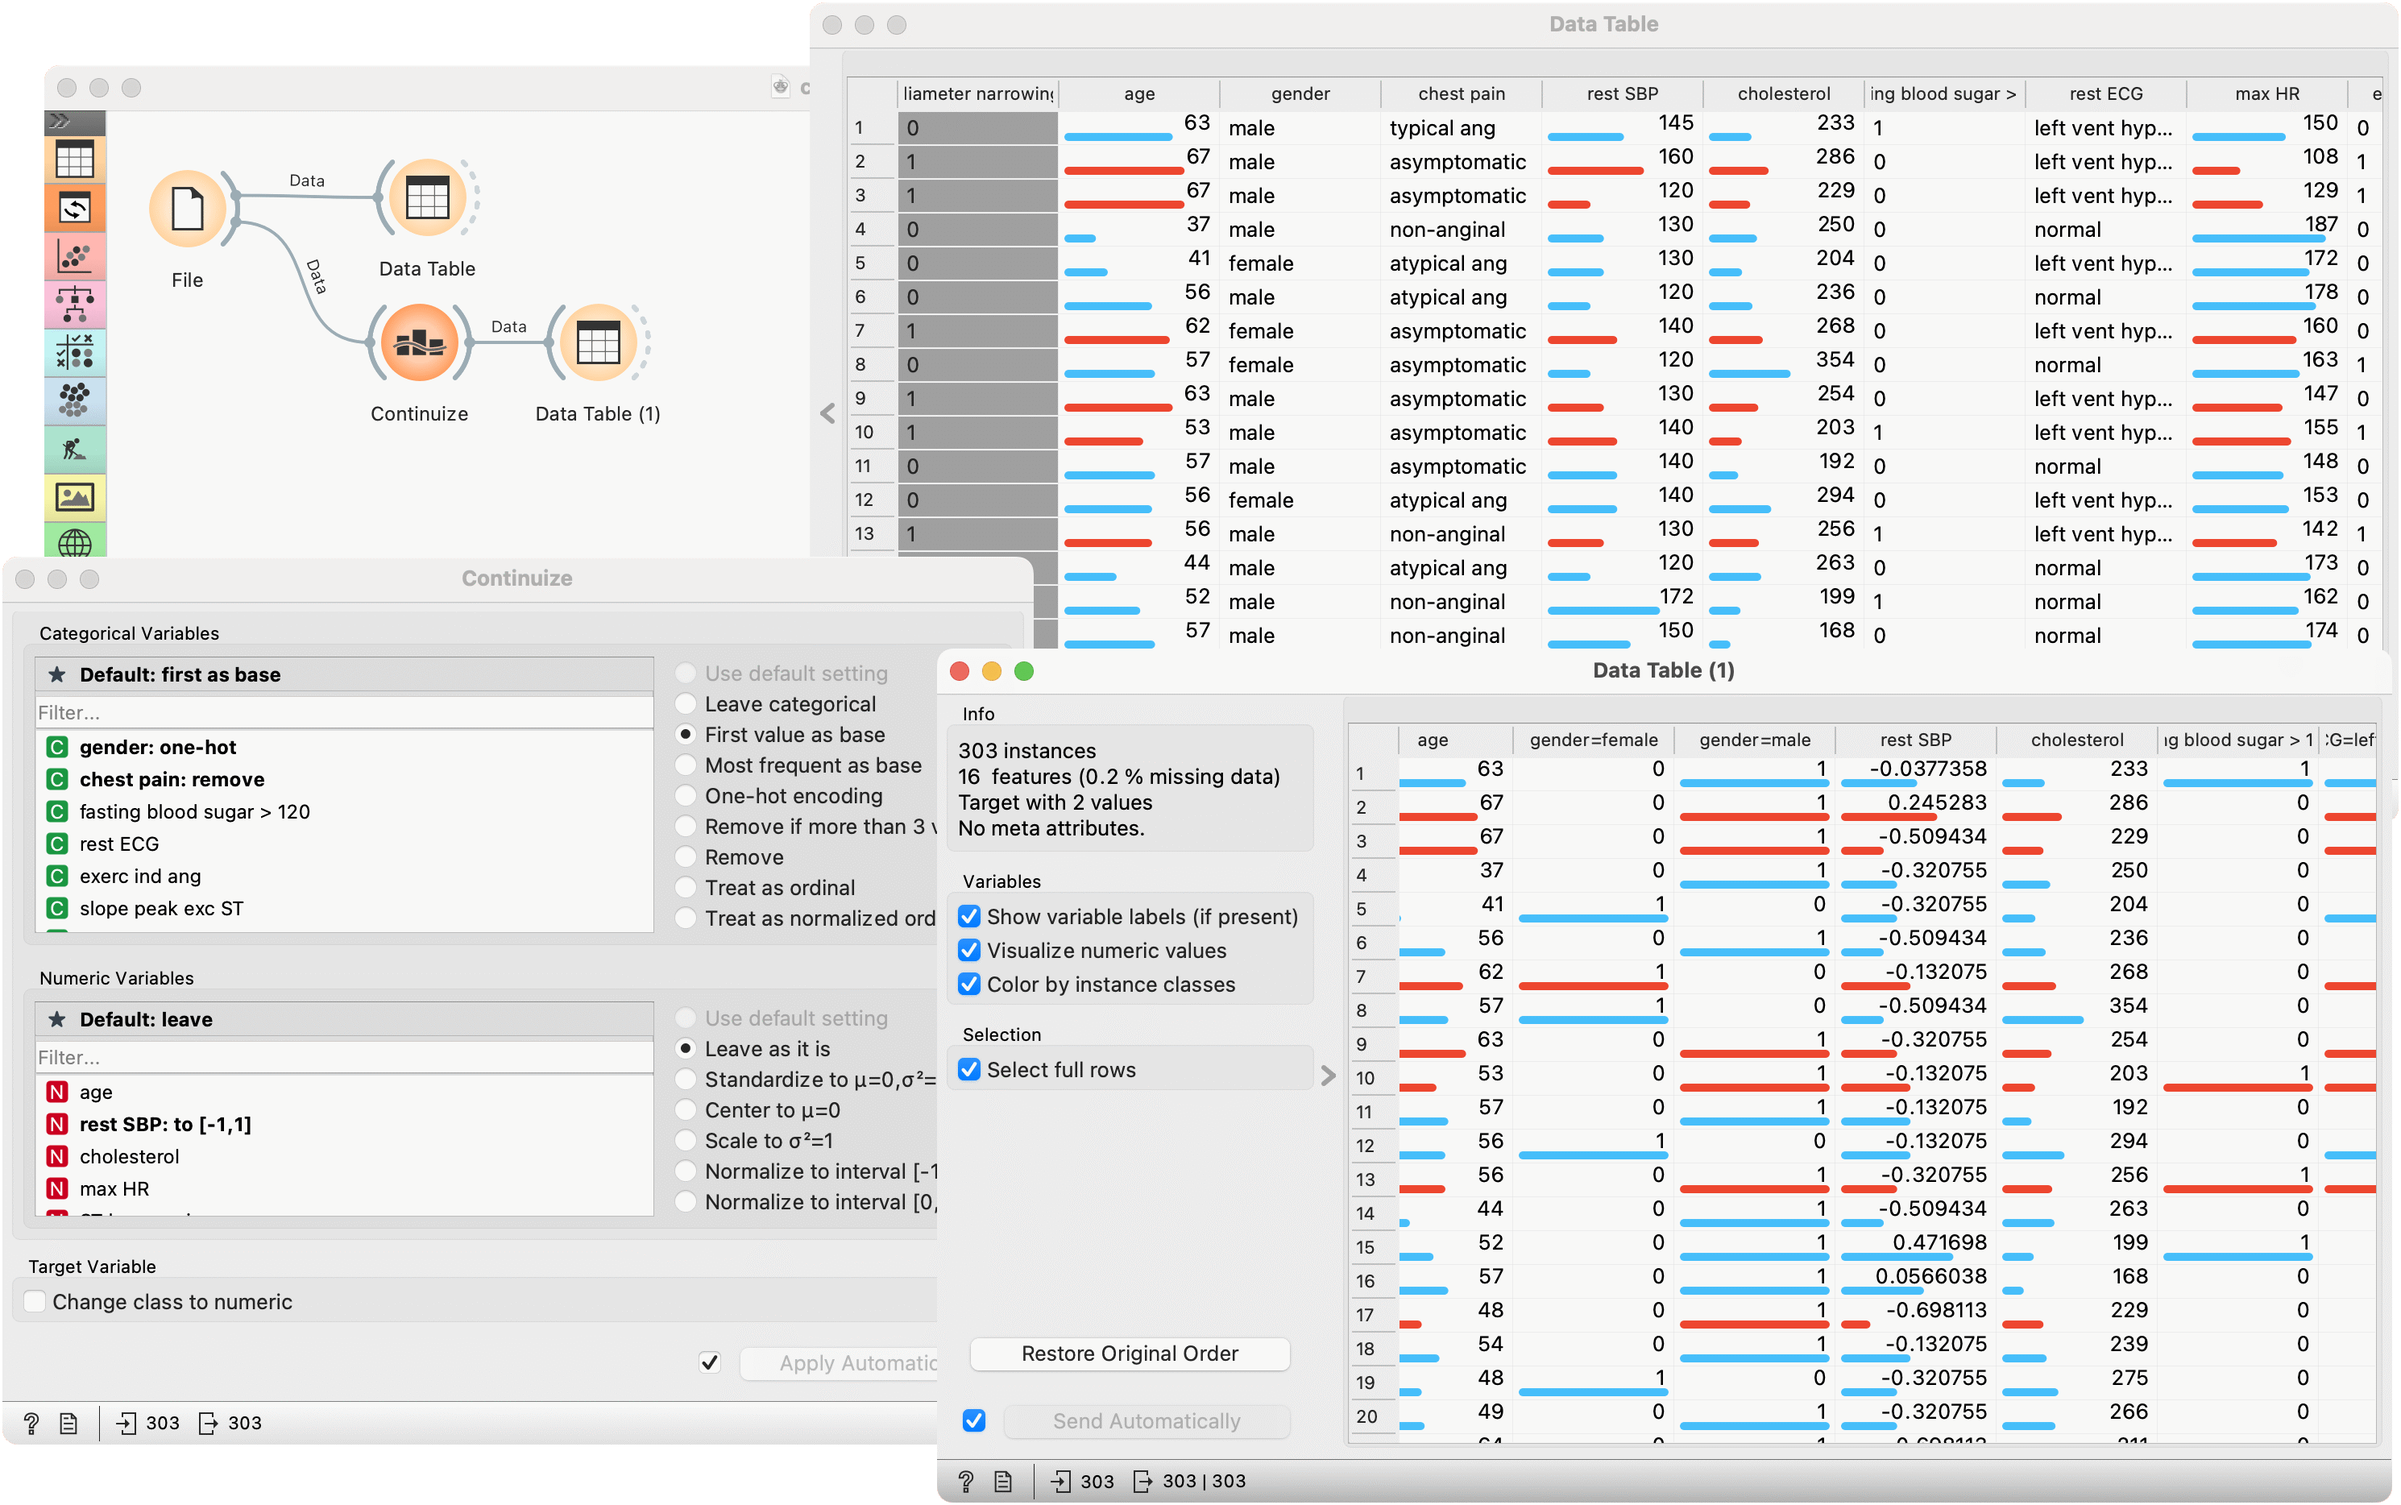
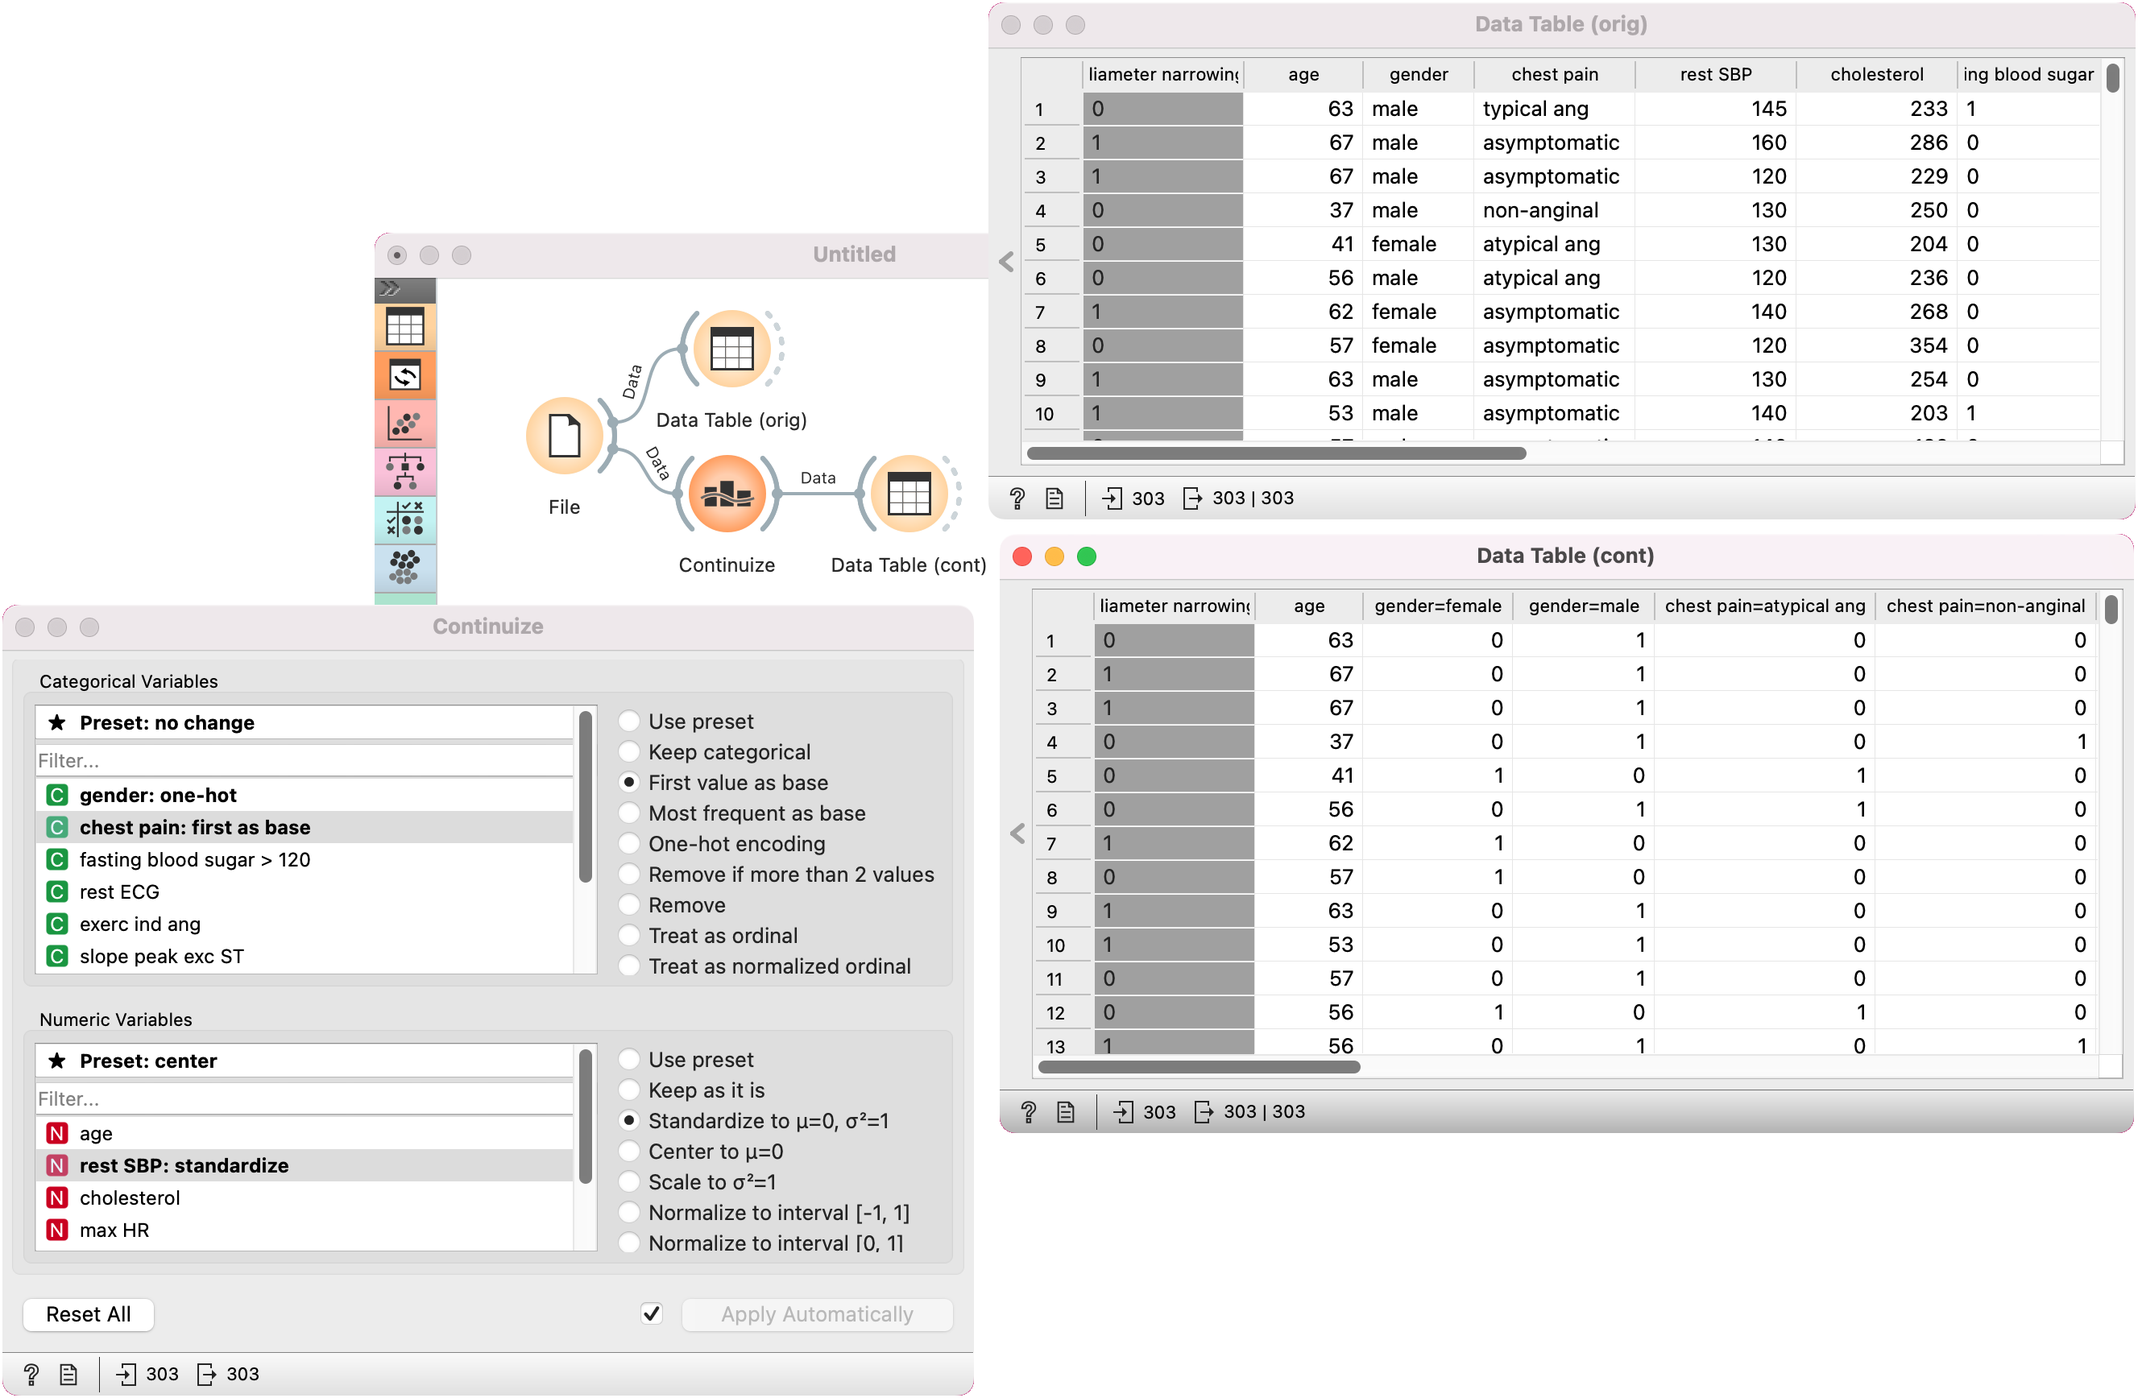
[DOC] Continuize

Changed region(s): [[0.0, 0.0, 1.0, 1.0]]

diff --git a/source/widgets/data/continuize.md b/source/widgets/data/continuize.md
@@ -1,7 +1,7 @@
 Continuize
 ==========
 
-Turns discrete variables (attributes) into numeric ("continuous") dummy variables.
+Turns categorical variables (attributes) into numeric ("continuous") dummy variables.
 
 **Inputs**
 
@@ -11,59 +11,43 @@ Turns discrete variables (attributes) into numeric ("continuous") dummy variable
 
 - Data: transformed data set
 
-The **Continuize** widget receives a data set in the input and outputs the same data set in which some or all categorical variables are replaced with continuous ones and numeric variables are scaled.
+The **Continuize** widget receives a data set in the input and outputs the same data set in which some or all categorical variables are replaced with numeric (continuous) ones and numeric variables are scaled.
 
 ![](images/Continuize-stamped.png)
 
-1. Select a categorical attribute to define its specific treatmen, or click the "Deafult" option above to set the default treatment for all categorical attributes without specific settings.
-
-    Multiple attributes can be chosen.
-
+1. Select a categorical attribute to define its specific treatment, or click the "Use default setting" option above to set the default treatment for all categorical attributes without specific settings.
+   Multiple attributes can be chosen.
 2. Define the treatment of categorical variables.
-
-    Examples in this section will assume that we have a categorical attribute *status* with values *low*, *middle* and *high*, listed in that order. Options for their transformation are:
-
+   Examples in this section will assume that we have a categorical attribute *status* with values *low*, *middle* and *high*, listed in that order. Options for their transformation are:
    - **Use default setting**: use the default treatment.
-
    - **Leave categorical**: leave the attribute as it is.
-
    - **First value as base**: a N-valued categorical variable will be transformed into N-1 numeric variables, each serving as an indicator for one of the original values except for the base value. The base value is the first value in the list. By default, the values are ordered alphabetically; their order can be changed in [Edit Domain](../data/editdomain).
-
-       In the above case, the three-valued variable *status* is transformed into two numeric variables, *status=middle* with values 0 or 1 indicating whether the original variable had value *middle* on a particular example, and similarly, *status=high*.
-
+       In the above case, the three-valued variable *status* is transformed into two numeric variables, *status=middle* with values 0 or 1 indicating whether the original variable had value *middle* on a particular example, and similarly, *status=high*. *Status=low* is indicated by both values being 0.
    - **Most frequent value as base**: similar to the above, except that the most frequent value is used as a base. So, if the most frequent value in the above example is *middle*, then *middle* is considered as the base and the two newly constructed variables are *status=low* and *status=high*.
-
-   - **One-hot encoding**: this option constructs one numeric variable per each value of the original variable. In the above case, we would get variables *status=low*, *status=middle* and *status=high*.
-
-   - **Remove if more than 3 values**: removes non-binary categorical variables from the data.
-
+   - **One-hot encoding**: this option constructs one numeric variable per each value of the original variable. In the above case, we would get three variables, *status=low*, *status=middle* and *status=high*.
+   - **Remove if more than 2 values**: removes non-binary categorical variables from the data.
    - **Remove**: removes the attribute.
-
-   - **Treat as ordinal**: converts the variable into a single numeric variable enumerating the original values. In the above case, the new variable would have the value of 0 for *low*, 1 for *middle* and 2 for *high*. Again note that the order of values can be set in  [Edit Domain](../data/editdomain).
-
+   - **Treat as ordinal**: converts the variable into a single numeric variable enumerating the original values. In the above case, the new variable would have the value of 0 for *low*, 1 for *middle* and 2 for *high*. Again note that the order of values can be set in [Edit Domain](../data/editdomain).
    - **Treat as normalized ordinal**: same as above, except that values are normalized into range 0-1. In our example, the values of the new variable would be 0, 0.5 and 1.
-
-3. Select attributes to set individual treatments or click "Default" to set the default treatment for numeric attributes.
-
+3. Select attributes for individual treatment or click "Default" to set the default treatment for numeric attributes.
 4. Define the treatment of numeric attributes. 
-
-   - **Use default setting**: use the general default.
+   - **Use default setting**: use the default treatment.
    - **Leave as it is**: do not change anything.
    - **Standardize**: subtract the mean and divide by the standard deviation (not available for sparse data).
    - **Center**: subtract the mean (not available for sparse data).
    - **Scale**: divide by standard deviation.
    - **Normalize to interval [-1, 1]**: linearly scale the values into interval [-1, 1] (not available for sparse data)
    - **Normalize to interval [0, 1]**: linearly scale the values into interval [0, 1] (not available for sparse data)
- 
-5. If checked, the class attribute is converted in the same fashion as categorical attributes that are treated as ordinal (see above).
+5. *Reset All* resets all variables to default option.
+   If *Apply automatically* is ticked, changes will be communicated automatically. Alternatively, click *Apply*.
 
 Examples
 --------
 
-First, let's see what is the output of the **Continuize** widget. We feed the original data (the *Heart disease* data set) into the [Data Table](../data/datatable) and see how they look like. Then we continuize the discrete values using various options and observe them in another [Data Table](../data/datatable).
+First, let's see what is the output of the **Continuize** widget. We feed the *heart_disease* data from the [File](../data/file.md) into the [Data Table](../data/datatable) and see how it looks like. Then we continuize the categorical variables using various options and observe them in another [Data Table](../data/datatable).
 
 ![](images/Continuize-Example1.png)
 
-In the second example, we show a typical use of this widget - in order to properly plot the linear projection of the data, discrete attributes need to be converted to continuous ones and that is why we put the data through the **Continuize** widget before drawing it. Gender, for instance, is transformed into two attributes "*gender=female*" and *gender=male*.
+In the second example, we show a typical use of this widget - in order to properly plot the linear projection of the data with the [Linear Projection](../visualize/linearprojection.md) widget, categorical attributes need to be converted to numeric ones and that is why we put the data through the **Continuize** widget before drawing it. Gender, for instance, is transformed into two attributes "*gender=female*" and *gender=male*.
 
 ![](images/Continuize-Example2.png)
